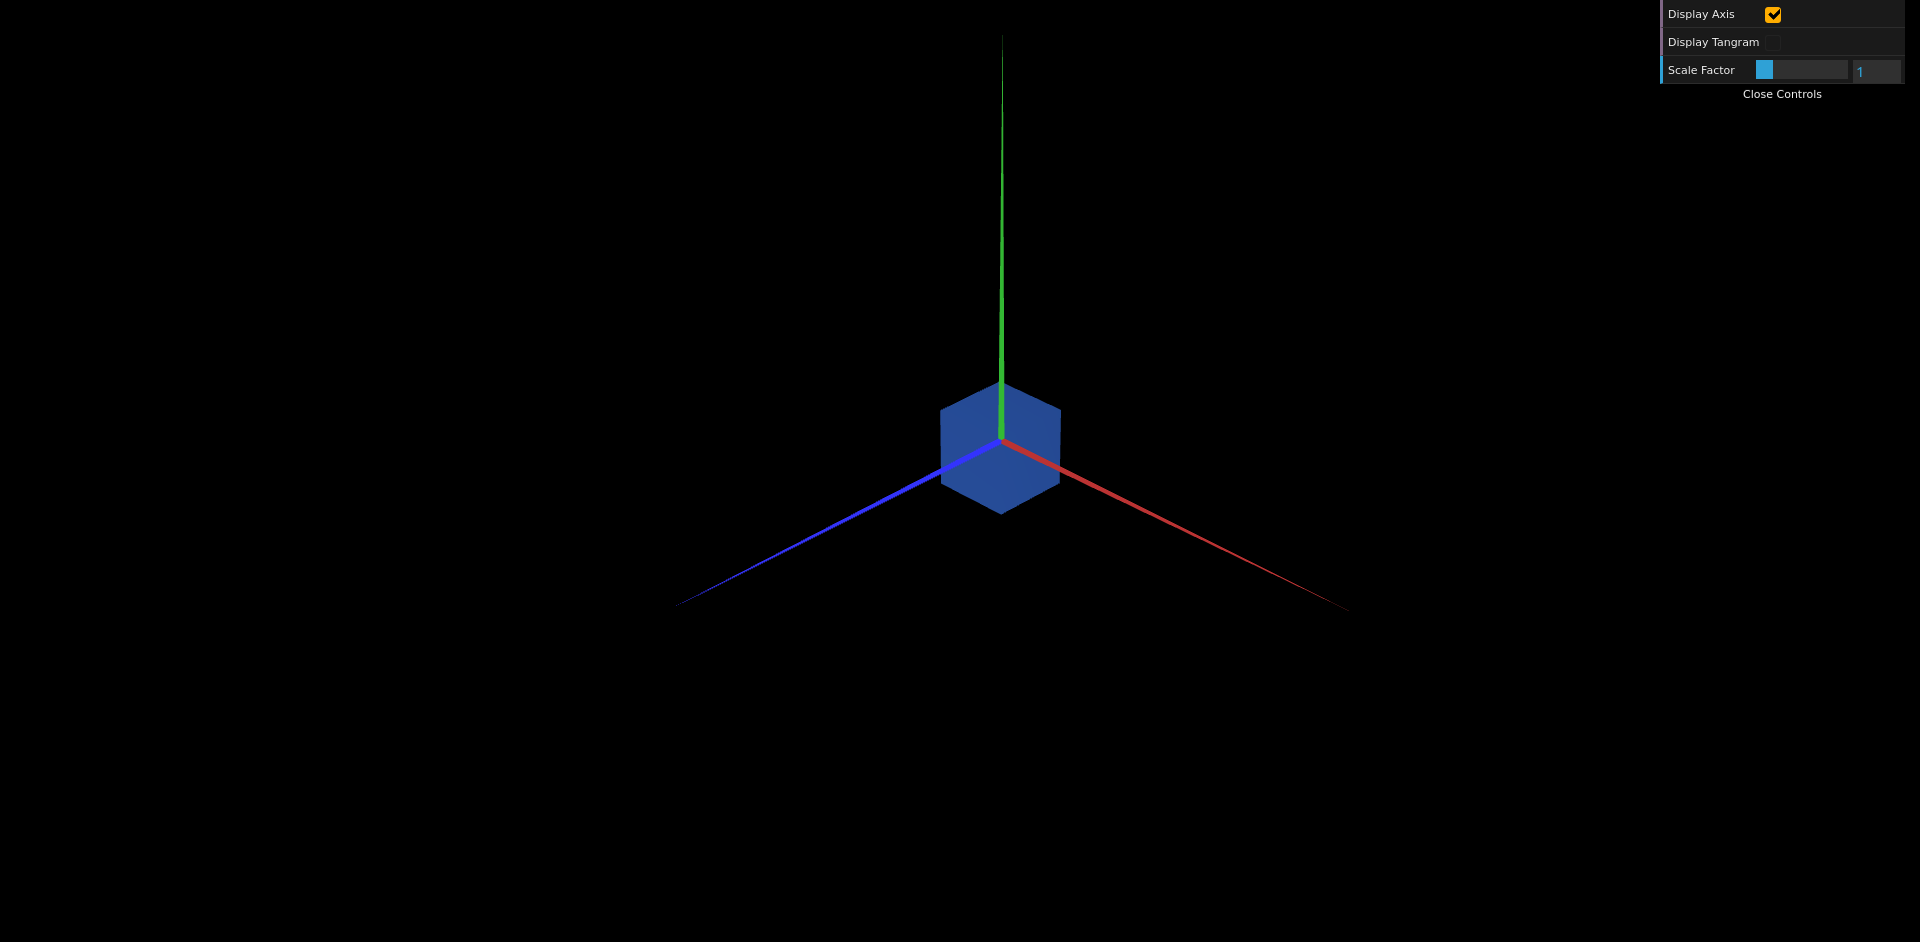
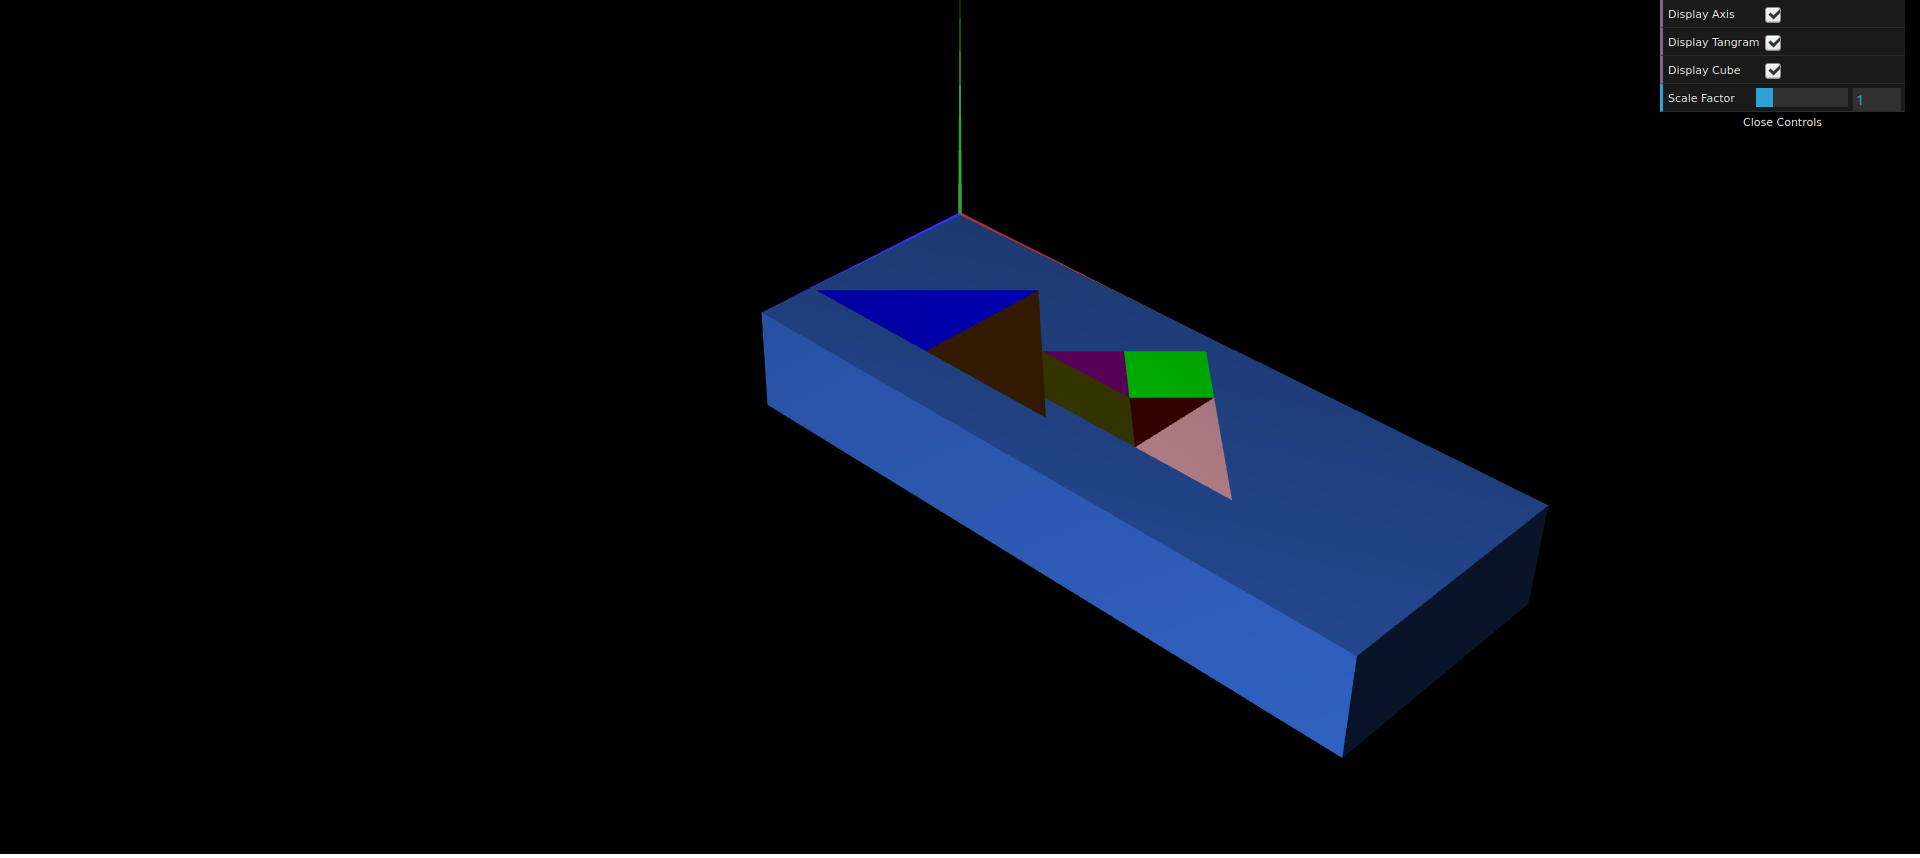
aded cubequad

Changed region(s): [[0.375, 0.2424, 0.8125, 0.8788], [0.0, 0.9697, 1.0, 1.0], [0.8438, 0.0, 1.0, 0.1515]]

diff --git a/ex2/MyUnitCubeQuad.js b/ex2/MyUnitCubeQuad.js
@@ -1,0 +1,54 @@
+/**
+ * MyUnitCubeQuad
+ * @constructor
+ * @param scene - Reference to MyScene object
+ */
+class MyUnitCubeQuad extends CGFobject {
+	constructor(scene) {
+        super(scene);
+        this.scene = scene;
+        this.Top = new MyQuad(this.scene);
+        this.Bot = new MyQuad(this.scene);
+        this.Lef = new MyQuad(this.scene);
+        this.Rig = new MyQuad(this.scene);
+        this.Fro = new MyQuad(this.scene);
+        this.Bac = new MyQuad(this.scene);
+    }
+    display(){
+        //Top
+        this.scene.pushMatrix(); {
+            this.scene.translate(0,+0.5,0);
+            this.scene.rotate(-90.0*Math.PI/180, 1, 0, 0);
+            this.Top.display();
+        } this.scene.popMatrix();
+        //Bot
+        this.scene.pushMatrix(); {
+            this.scene.translate(0,-0.5,0);
+            this.scene.rotate(+90.0*Math.PI/180, 1, 0, 0);
+            this.Bot.display();
+        } this.scene.popMatrix();
+        //Lef
+        this.scene.pushMatrix(); {
+            this.scene.translate(0,0,+0.5);
+            this.Lef.display();
+        } this.scene.popMatrix();
+        //Rig
+        this.scene.pushMatrix(); {
+            this.scene.translate(0,0,-0.5);
+            this.scene.rotate(+180.0*Math.PI/180, 1, 0, 0);
+            this.Rig.display();
+        } this.scene.popMatrix();
+        //Fro
+        this.scene.pushMatrix(); {
+            this.scene.translate(+0.5, 0, 0);
+            this.scene.rotate(+90.0*Math.PI/180, 0, 1, 0);
+            this.Fro.display();
+        } this.scene.popMatrix();
+        //Bac
+        this.scene.pushMatrix(); {
+            this.scene.translate(-0.5, 0, 0);
+            this.scene.rotate(-90.0*Math.PI/180, 0, 1, 0);
+            this.Fro.display();
+        } this.scene.popMatrix();      
+    }
+}

diff --git a/ex2/main.js b/ex2/main.js
@@ -2,7 +2,7 @@
 include=function(){function f(){var a=this.readyState;(!a||/ded|te/.test(a))&&(c--,!c&&e&&d())}var a=arguments,b=document,c=a.length,d=a[c-1],e=d.call;e&&c--;for(var g,h=0;c>h;h++)g=b.createElement("script"),g.src=arguments[h],g.async=!0,g.onload=g.onerror=g.onreadystatechange=f,(b.head||b.getElementsByTagName("head")[0]).appendChild(g)};
 serialInclude=function(a){var b=console,c=serialInclude.l;if(a.length>0)c.splice(0,0,a);else b.log("Done!");if(c.length>0){if(c[0].length>1){var d=c[0].splice(0,1);b.log("Loading "+d+"...");include(d,function(){serialInclude([]);});}else{var e=c[0][0];c.splice(0,1);e.call();};}else b.log("Finished.");};serialInclude.l=new Array();
 
-serialInclude(['../lib/CGF.js', 'MyDiamond.js', 'MyTangram.js', 'MyUnitCube.js', 'MyTriangle.js','MyScene.js', 'MyInterface.js','MyParallelogram.js','MyTriangleBig.js','MyTriangleSmall.js',
+serialInclude(['../lib/CGF.js', 'getParams.js', 'MyQuad.js', 'MyUnitCubeQuad.js', 'MyDiamond.js', 'MyTangram.js', 'MyUnitCube.js', 'MyTriangle.js','MyScene.js', 'MyInterface.js','MyParallelogram.js','MyTriangleBig.js','MyTriangleSmall.js',
 
 main=function()
 {

diff --git a/ex2/MyQuad.js b/ex2/MyQuad.js
@@ -1,0 +1,32 @@
+/**
+ * MyQuad
+ * @constructor
+ * @param scene - Reference to MyScene object
+ */
+class MyQuad extends CGFobject {
+	constructor(scene) {
+		super(scene);
+		this.initBuffers();
+	}
+	initBuffers() {
+		this.vertices = [
+			0.5, 0.5, 0,	//0
+			-0.5, 0.5, 0,	//1
+            -0.5, -0.5, 0, 	//2
+            0.5, -0.5, 0 //3
+		];
+
+		//Counter-clockwise reference of vertices
+		this.indices = [
+            0, 1, 2,
+            2, 3, 0
+		];
+
+		//The defined indices (and corresponding vertices)
+		//will be read in groups of three to draw triangles
+		this.primitiveType = this.scene.gl.TRIANGLES;
+
+		this.initGLBuffers();
+	}
+}
+

diff --git a/ex2/MyScene.js b/ex2/MyScene.js
@@ -25,7 +25,7 @@ class MyScene extends CGFscene {
         this.tangram = new MyTangram(this);
 
 
-        this.cube = new MyUnitCube(this);
+        this.cube = new MyUnitCubeQuad(this);
         
         //Objects connected to MyInterface
         this.displayAxis     = true;
